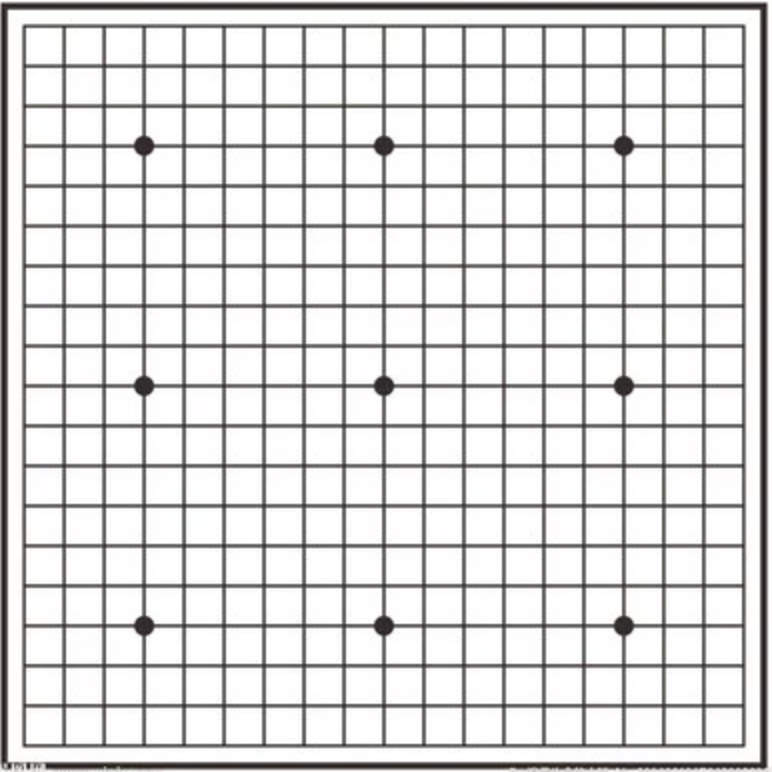
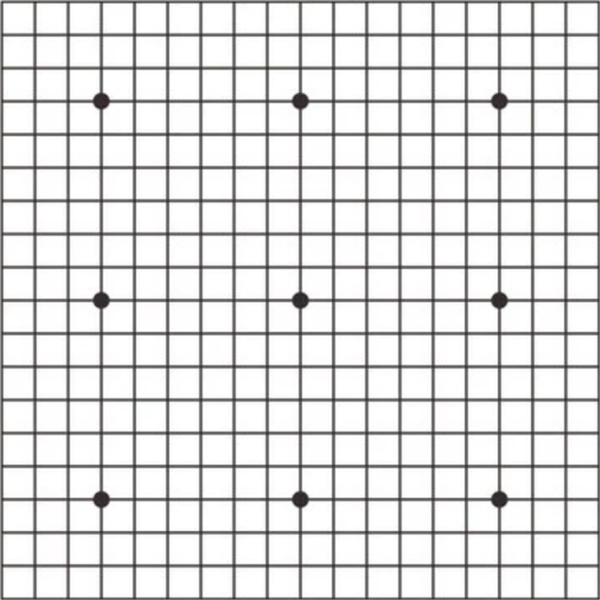
meowmeowmeow

diff --git a/gaming_UI.py b/gaming_UI.py
@@ -1,29 +1,45 @@
 import pygame
 
 class GamingUI():
-    def __init__(self):
+    def __init__(self, s):
 
-        pygame.init()
-        surface = pygame.display.set_mode((800, 600))
+        # pygame.init()
+        self.surface = pygame.display.set_mode((800, 800))
         pygame.display.set_caption('五子棋')
         Raw_BoardImg = pygame.image.load('./images/board_img.png')
-        BW_img = pygame.image.load('./images/BW.png')
-        croppedBW = pygame.Surface((70, 70))
-        boardImg = pygame.transform.scale(Raw_BoardImg, (600, 600))
-        window_surface.blit(boardImg, (0,0))
+        self.B_img = pygame.image.load('./images/black.png')
+        self.B_img = pygame.image.scale(self.B_img, (40,40))        
+        self.W_img = pygame.image.load('./images/white.png')
+        self.W_img = pygame.image.load('./images/white.png')
+        
+        self.boardImg = pygame.transform.scale(Raw_BoardImg, (600, 600))
+        self.surface.blit(boardImg, (0,0))
 
+        self.board_origin = (100,100)
+
+<<<<<<< Updated upstream
     def draw_board(self, board , ):  # 100
+=======
+    def draw_board(self, board):  # 100
+>>>>>>> Stashed changes
         # [[EMPTY]*n]*n
         # draw_grid
         # draw zhi
-        
+        self.surface.blit(boardImg, self.board_origin)        
         for i in range(15):
             for j in range(15):
                 if board[i][j] == 1:
+<<<<<<< Updated upstream
                     surface.blit(BW_img, (40*i, 40*j), (0, 70, 70, 70))
                 elif board[i][j] == -1:
                     surface.blit(BW_img, (40*i, 40*j), (0, 0, 70, 70))
 
+=======
+                    self.surface.blit(B_img, (180+40*i, 180+40*j))
+                elif board[i][j] == -1:
+                    self.surface.blit(W_img, (180+40*i, 180+40*j))
+        pygame.display.update()
+>>>>>>> Stashed changes
 
     def check_mouse_click(self):  # 100
         player_move = Move(mouse_coordinate)
